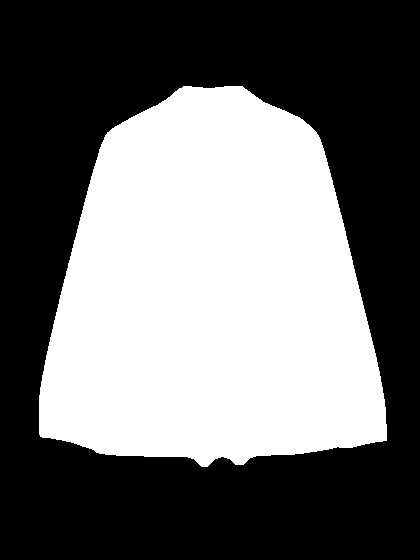
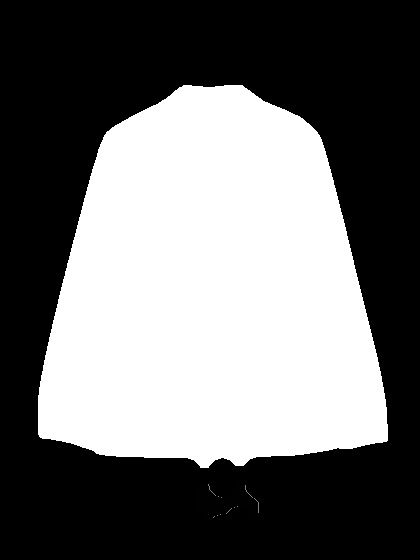
docs

diff --git a/scripts/docs/cut.md b/scripts/docs/cut.md
@@ -142,17 +142,13 @@
 
 再排除掉断开部分：
 
-![去轮廓](assets/flow_clothing_42.jpg)
+![去轮廓](assets/flow_clothing_43_before.jpg)
 
 直接使用该掩膜操作原图像，得到的分割图像会黏着有一定的背景边缘:
 
-![边缘黏着](assets/flow_clothing_43_before.jpg)
+![边缘黏着](assets/flow_clothing_border.jpg)
 
-所以我们还需要对掩膜进行一定的腐蚀：
-
-![消除边缘黏着](assets/flow_clothing_43_after.jpg)
-
-最终形成的分割图像如下图所示：
+因此，考虑对掩膜进行一定的腐蚀，最终形成的分割图像如下图所示：
 
 ![pure分割结果](assets/flow_clothing_end_model.jpg)
 
@@ -166,4 +162,4 @@
 
 ### 下装分割流程
 
-![下装分割流程](assets/flow_pants.png)
+> 未完待续
